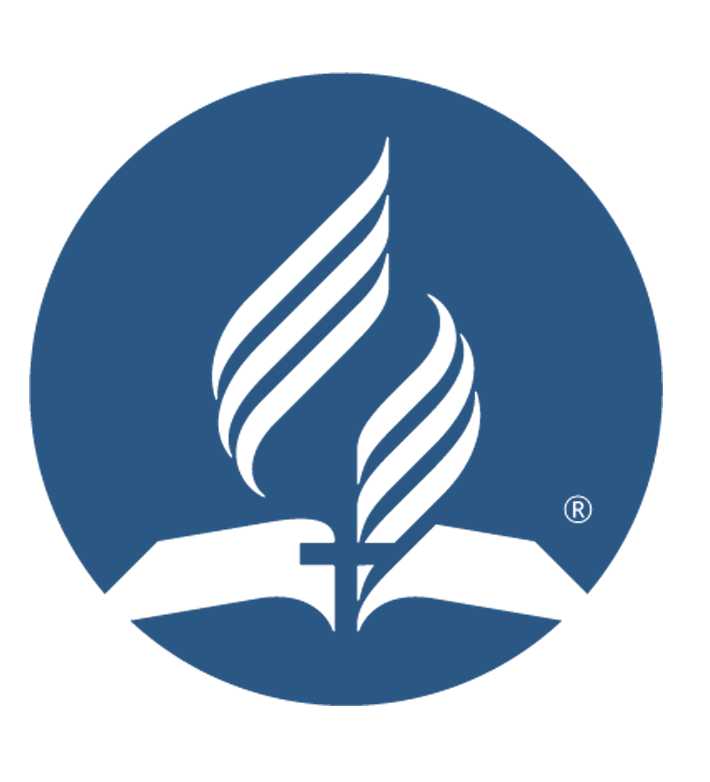
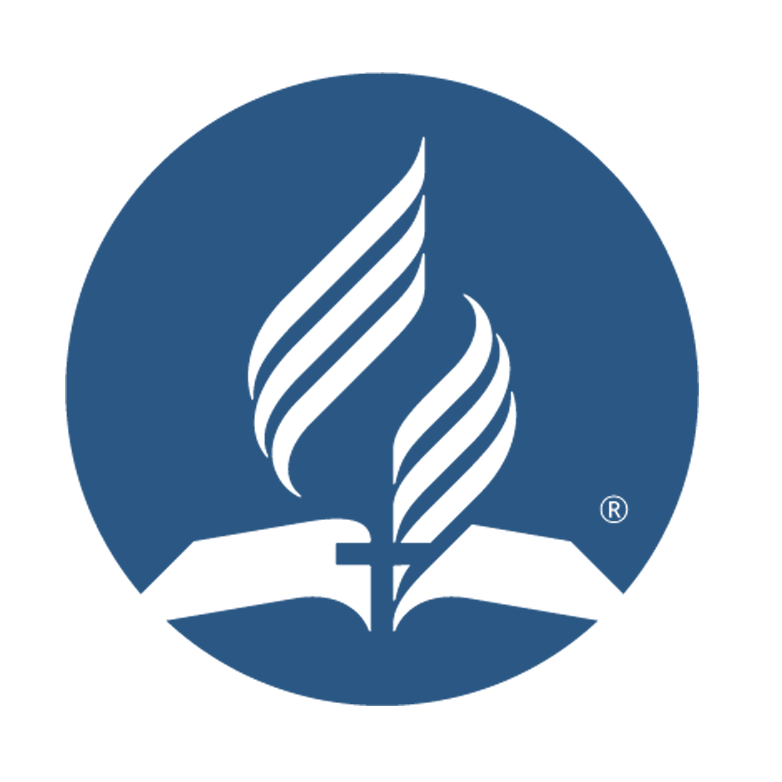
feat: added data to the staff views

diff --git a/src/app/staff/page.tsx b/src/app/staff/page.tsx
@@ -454,8 +454,17 @@ function StaffScheduleBoard({ staffList, isLoadingStaff }: { staffList: StaffApi
   const [isLoadingPausas, setIsLoadingPausas] = useState(false);
   const [isSavingJornada, setIsSavingJornada] = useState(false);
   const [selectedScheduleDay, setSelectedScheduleDay] = useState<WorkWeekDay>(() => getCurrentWorkWeekDay());
+  const [nowTimestamp, setNowTimestamp] = useState(() => Date.now());
   const leftColumnRef = useRef<HTMLDivElement>(null);
   const rightColumnRef = useRef<HTMLDivElement>(null);
+
+  useEffect(() => {
+    const intervalId = window.setInterval(() => {
+      setNowTimestamp(Date.now());
+    }, 60 * 1000);
+
+    return () => window.clearInterval(intervalId);
+  }, []);
 
   // Sync vertical scrolls between left and right columns
   useEffect(() => {
@@ -482,6 +491,13 @@ function StaffScheduleBoard({ staffList, isLoadingStaff }: { staffList: StaffApi
     };
   }, []);
 
+  const currentDate = useMemo(() => new Date(nowTimestamp), [nowTimestamp]);
+  const currentMinutes = currentDate.getHours() * 60 + currentDate.getMinutes();
+  const currentWorkDay = useMemo<WorkWeekDay>(() => {
+    const dayMap: WorkWeekDay[] = ["Domingo", "Lunes", "Martes", "Miércoles", "Jueves", "Viernes", "Sábado"];
+    return dayMap[currentDate.getDay()] ?? "Lunes";
+  }, [currentDate]);
+
   const activeStaffCount = staffList.filter((staff) => staff.estado === "Active").length;
   const hourCells = useMemo(
     () =>
@@ -494,10 +510,74 @@ function StaffScheduleBoard({ staffList, isLoadingStaff }: { staffList: StaffApi
   );
   const staffWithSchedule = staffList.filter((staff) => (jornadaByStaffId[staff.id]?.length ?? 0) > 0).length;
   const withoutScheduleCount = Math.max(staffList.length - staffWithSchedule, 0);
-  const totalHoursScheduled = staffList.reduce((sum, staff) => {
-    const total = (jornadaByStaffId[staff.id] ?? []).reduce((acc, row) => acc + row.totalHorasDia, 0);
-    return sum + total;
+  const selectedDayKey = normalizeDayName(selectedScheduleDay);
+  const currentDayKey = normalizeDayName(currentWorkDay);
+
+  const isStaffWorkingNow = (staffId: string) => {
+    const jornadaToday = (jornadaByStaffId[staffId] ?? []).filter(
+      (row) => normalizeDayName(row.diaSemana) === currentDayKey,
+    );
+
+    if (jornadaToday.length === 0) return false;
+
+    const hasActiveJornada = jornadaToday.some((row) => {
+      const start = timeToMinutes(row.horaEntrada);
+      const end = timeToMinutes(row.horaSalida);
+      return Number.isFinite(start) && Number.isFinite(end) && start <= currentMinutes && currentMinutes < end;
+    });
+
+    if (!hasActiveJornada) return false;
+
+    const activePause = (pausaByStaffId[staffId] ?? []).some((pause) => {
+      if (normalizeDayName(pause.diaSemana) !== currentDayKey) return false;
+      const start = timeToMinutes(pause.horaInicio);
+      const end = timeToMinutes(pause.horaFin);
+      return Number.isFinite(start) && Number.isFinite(end) && start <= currentMinutes && currentMinutes < end;
+    });
+
+    return !activePause;
+  };
+
+  const workingNowCount = staffList.filter(
+    (staff) => staff.estado === "Active" && isStaffWorkingNow(staff.id),
+  ).length;
+
+  const staffWithScheduleOnSelectedDay = staffList.filter((staff) =>
+    (jornadaByStaffId[staff.id] ?? []).some((row) => normalizeDayName(row.diaSemana) === selectedDayKey),
+  ).length;
+
+  const totalSelectedDayHours = staffList.reduce((sum, staff) => {
+    const dayTotal = (jornadaByStaffId[staff.id] ?? [])
+      .filter((row) => normalizeDayName(row.diaSemana) === selectedDayKey)
+      .reduce((acc, row) => acc + row.totalHorasDia, 0);
+
+    return sum + dayTotal;
   }, 0);
+
+  const sortedStaffList = useMemo(() => {
+    return [...staffList].sort((a, b) => {
+      const aWorking = isStaffWorkingNow(a.id);
+      const bWorking = isStaffWorkingNow(b.id);
+
+      if (aWorking !== bWorking) {
+        return aWorking ? -1 : 1;
+      }
+
+      const aJornada = jornadaByStaffId[a.id] ?? [];
+      const bJornada = jornadaByStaffId[b.id] ?? [];
+
+      const aStart = aJornada
+        .map((row) => timeToMinutes(row.horaEntrada))
+        .filter((value) => value >= 0)
+        .sort((left, right) => left - right)[0] ?? Infinity;
+      const bStart = bJornada
+        .map((row) => timeToMinutes(row.horaEntrada))
+        .filter((value) => value >= 0)
+        .sort((left, right) => left - right)[0] ?? Infinity;
+
+      return aStart - bStart;
+    });
+  }, [staffList, jornadaByStaffId, pausaByStaffId, currentDayKey, currentMinutes]);
 
   const formatDayHoursLabel = (rows: StaffJornadaItem[]) => `${rows.reduce((sum, row) => sum + row.totalHorasDia, 0).toFixed(1)} h`;
 
@@ -1000,34 +1080,54 @@ function StaffScheduleBoard({ staffList, isLoadingStaff }: { staffList: StaffApi
     return days.join(", ");
   };
 
-  const getBandStyle = (jornada: StaffJornadaItem[]) => {
-    if (jornada.length === 0) {
-      return { left: "0%", right: "68%" };
+  const getBandSegments = (jornada: StaffJornadaItem[]) => {
+    const rawSegments = jornada
+      .map((row) => ({
+        start: timeToMinutes(row.horaEntrada),
+        end: timeToMinutes(row.horaSalida),
+      }))
+      .filter((segment) => Number.isFinite(segment.start) && Number.isFinite(segment.end) && segment.end > segment.start)
+      .map((segment) => ({
+        start: Math.max(segment.start, TIMELINE_START_MINUTES),
+        end: Math.min(segment.end, TIMELINE_END_MINUTES),
+      }))
+      .filter((segment) => segment.end > segment.start)
+      .sort((a, b) => a.start - b.start);
+
+    if (rawSegments.length === 0) {
+      return [] as Array<{ left: number; width: number }>;
     }
 
-    const start = jornada
-      .map((row) => timeToMinutes(row.horaEntrada))
-      .filter((value) => value >= 0)
-      .sort((left, right) => left - right)[0] ?? TIMELINE_START_MINUTES;
-    const end = jornada
-      .map((row) => timeToMinutes(row.horaSalida))
-      .filter((value) => value >= 0)
-      .sort((left, right) => right - left)[0] ?? TIMELINE_START_MINUTES + 60;
+    const mergedSegments: Array<{ start: number; end: number }> = [];
+    for (const segment of rawSegments) {
+      const previous = mergedSegments[mergedSegments.length - 1];
+      if (!previous || segment.start > previous.end) {
+        mergedSegments.push({ ...segment });
+        continue;
+      }
 
-    const normalizedStart = Math.max(start, TIMELINE_START_MINUTES);
-    const normalizedEnd = Math.min(end, TIMELINE_END_MINUTES);
-
-    if (normalizedEnd <= normalizedStart) {
-      return { left: "0%", right: "100%" };
+      previous.end = Math.max(previous.end, segment.end);
     }
 
-    const leftPct = ((normalizedStart - TIMELINE_START_MINUTES) / TIMELINE_TOTAL_MINUTES) * 100;
-    const rightPct = ((TIMELINE_END_MINUTES - normalizedEnd) / TIMELINE_TOTAL_MINUTES) * 100;
+    return mergedSegments.map((segment) => {
+      const left = ((segment.start - TIMELINE_START_MINUTES) / TIMELINE_TOTAL_MINUTES) * 100;
+      const width = Math.max(((segment.end - segment.start) / TIMELINE_TOTAL_MINUTES) * 100, 1.2);
+      return { left, width };
+    });
+  };
 
-    return {
-      left: `${Math.max(0, Math.min(100, leftPct))}%`,
-      right: `${Math.max(0, Math.min(100, rightPct))}%`,
-    };
+  const getJornadaRangesLabel = (jornada: StaffJornadaItem[]) => {
+    const ranges = jornada
+      .map((row) => ({
+        start: timeToMinutes(row.horaEntrada),
+        end: timeToMinutes(row.horaSalida),
+        label: `${formatTimeAmPm(row.horaEntrada)} - ${formatTimeAmPm(row.horaSalida)}`,
+      }))
+      .filter((range) => Number.isFinite(range.start) && Number.isFinite(range.end) && range.end > range.start)
+      .sort((a, b) => a.start - b.start)
+      .map((range) => range.label);
+
+    return ranges.join(" • ");
   };
 
   const totalWeeklyWorkHours = editorRows.reduce((sum, row) => sum + parseFloat(row.totalHorasDia || "0"), 0);
@@ -1063,10 +1163,10 @@ function StaffScheduleBoard({ staffList, isLoadingStaff }: { staffList: StaffApi
 
       <div className="grid grid-cols-2 gap-2.5 md:grid-cols-4 md:gap-4">
         <div className="rounded-xl border border-slate-200 bg-white p-3 sm:p-4 md:p-5">
-          <p className="text-[10px] font-bold tracking-widest text-[#566166] uppercase">Personal activo</p>
+          <p className="text-[10px] font-bold tracking-widest text-[#566166] uppercase">Trabajando ahora</p>
           <div className="mt-1 flex items-baseline gap-1.5">
-            <span className="text-xl font-black text-[#2a3439] sm:text-2xl">{activeStaffCount}</span>
-            <span className="text-xs font-bold text-[#3a5f94]">/ {staffList.length} en total</span>
+            <span className="text-xl font-black text-[#2a3439] sm:text-2xl">{workingNowCount}</span>
+            <span className="text-xs font-bold text-[#3a5f94]">/ {activeStaffCount} activos</span>
           </div>
         </div>
         <div className="rounded-xl border border-slate-200 bg-white p-3 sm:p-4 md:p-5">
@@ -1079,15 +1179,15 @@ function StaffScheduleBoard({ staffList, isLoadingStaff }: { staffList: StaffApi
         <div className="rounded-xl border border-slate-200 bg-white p-3 sm:p-4 md:p-5">
           <p className="text-[10px] font-bold tracking-widest text-[#566166] uppercase">Con horario</p>
           <div className="mt-1 flex items-baseline gap-1.5">
-            <span className="text-xl font-black text-[#2a3439] sm:text-2xl">{staffWithSchedule}</span>
+            <span className="text-xl font-black text-[#2a3439] sm:text-2xl">{staffWithScheduleOnSelectedDay}</span>
             <span className="text-xs font-medium text-[#566166]">personas</span>
           </div>
         </div>
         <div className="rounded-xl border border-slate-200 bg-white p-3 sm:p-4 md:p-5">
-          <p className="text-[10px] font-bold tracking-widest text-[#566166] uppercase">Horas semanales</p>
+          <p className="text-[10px] font-bold tracking-widest text-[#566166] uppercase">Horas totales del día</p>
           <div className="mt-1 flex items-baseline gap-1.5">
-            <span className="text-xl font-black text-[#2a3439] sm:text-2xl">{totalHoursScheduled.toFixed(1)}</span>
-            <span className="text-xs font-medium text-[#566166]">programadas</span>
+            <span className="text-xl font-black text-[#2a3439] sm:text-2xl">{totalSelectedDayHours.toFixed(1)}</span>
+            <span className="text-xs font-medium text-[#566166]">{selectedScheduleDay}</span>
           </div>
         </div>
       </div>
@@ -1109,26 +1209,14 @@ function StaffScheduleBoard({ staffList, isLoadingStaff }: { staffList: StaffApi
               ) : staffList.length === 0 ? (
                 <p className="p-4 text-sm text-[#566166]">No hay personal registrado.</p>
               ) : (
-                [...staffList].sort((a, b) => {
-                  const aJornada = jornadaByStaffId[a.id] ?? [];
-                  const bJornada = jornadaByStaffId[b.id] ?? [];
-                  const aStart = aJornada
-                    .map((row) => timeToMinutes(row.horaEntrada))
-                    .filter((value) => value >= 0)
-                    .sort((left, right) => left - right)[0] ?? Infinity;
-                  const bStart = bJornada
-                    .map((row) => timeToMinutes(row.horaEntrada))
-                    .filter((value) => value >= 0)
-                    .sort((left, right) => left - right)[0] ?? Infinity;
-                  return aStart - bStart;
-                }).map((staff) => {
+                sortedStaffList.map((staff) => {
                   const jornada = jornadaByStaffId[staff.id] ?? [];
-                  const selectedDayKey = normalizeDayName(selectedScheduleDay);
                   const jornadaForSelectedDay = jornada.filter((row) => normalizeDayName(row.diaSemana) === selectedDayKey);
                   const hasJornada = jornadaForSelectedDay.length > 0;
+                  const workingNow = isStaffWorkingNow(staff.id);
 
                   return (
-                    <div className="flex h-[62px] items-center gap-2.5 bg-white px-3 sm:h-[70px] sm:gap-3 sm:px-4 md:h-[74px]" key={staff.id}>
+                    <div className={`flex h-[62px] items-center gap-2.5 bg-white px-3 sm:h-[70px] sm:gap-3 sm:px-4 md:h-[74px] ${workingNow ? "border-l-4 border-emerald-500" : ""}`} key={staff.id}>
                       <div className="relative flex h-8 w-8 items-center justify-center overflow-hidden rounded-lg bg-[#e8eff3] text-[11px] font-black text-[#375c91] sm:h-10 sm:w-10 sm:text-xs">
                         <img
                           src={getStaffPhotoUrl(staff.cedula)}
@@ -1195,30 +1283,17 @@ function StaffScheduleBoard({ staffList, isLoadingStaff }: { staffList: StaffApi
               ) : staffList.length === 0 ? (
                 <p className="p-4 text-sm text-[#566166]">No hay personal registrado.</p>
               ) : (
-                [...staffList].sort((a, b) => {
-                  const aJornada = jornadaByStaffId[a.id] ?? [];
-                  const bJornada = jornadaByStaffId[b.id] ?? [];
-                  const aStart = aJornada
-                    .map((row) => timeToMinutes(row.horaEntrada))
-                    .filter((value) => value >= 0)
-                    .sort((left, right) => left - right)[0] ?? Infinity;
-                  const bStart = bJornada
-                    .map((row) => timeToMinutes(row.horaEntrada))
-                    .filter((value) => value >= 0)
-                    .sort((left, right) => left - right)[0] ?? Infinity;
-                  return aStart - bStart;
-                }).map((staff) => {
+                sortedStaffList.map((staff) => {
                   const jornada = jornadaByStaffId[staff.id] ?? [];
                   const pausas = pausaByStaffId[staff.id] ?? [];
-                  const selectedDayKey = normalizeDayName(selectedScheduleDay);
                   const jornadaForSelectedDay = jornada.filter((row) => normalizeDayName(row.diaSemana) === selectedDayKey);
                   const pausasForSelectedDay = pausas
                     .filter((row) => normalizeDayName(row.diaSemana) === selectedDayKey)
                     .sort((a, b) => timeToMinutes(a.horaInicio) - timeToMinutes(b.horaInicio));
                   const hasJornada = jornadaForSelectedDay.length > 0;
-                  const firstStart = hasJornada ? jornadaForSelectedDay.map((row) => row.horaEntrada).sort()[0] : null;
-                  const lastEnd = hasJornada ? jornadaForSelectedDay.map((row) => row.horaSalida).sort().slice(-1)[0] : null;
-                  const bandStyle = getBandStyle(jornadaForSelectedDay);
+                  const bandSegments = getBandSegments(jornadaForSelectedDay);
+                  const jornadaRangesLabel = getJornadaRangesLabel(jornadaForSelectedDay);
+                  const firstBandLeft = bandSegments[0]?.left ?? 0;
 
                   return (
                     <div className="relative h-[62px] bg-white sm:h-[70px] md:h-[74px]" key={staff.id}>
@@ -1229,20 +1304,12 @@ function StaffScheduleBoard({ staffList, isLoadingStaff }: { staffList: StaffApi
                       </div>
 
                       {/* Current time indicator if today */}
-                      {selectedScheduleDay === getCurrentWorkWeekDay() && (() => {
-                        const now = new Date();
-                        const currentMinutes = now.getHours() * 60 + now.getMinutes();
-                        if (currentMinutes >= TIMELINE_START_MINUTES && currentMinutes <= TIMELINE_END_MINUTES) {
-                          const leftPct = ((currentMinutes - TIMELINE_START_MINUTES) / TIMELINE_TOTAL_MINUTES) * 100;
-                          return (
-                            <div
-                              className="absolute top-0 bottom-0 w-0.5 bg-red-500 z-20"
-                              style={{ left: `${leftPct}%` }}
-                            />
-                          );
-                        }
-                        return null;
-                      })()}
+                      {selectedScheduleDay === currentWorkDay && currentMinutes >= TIMELINE_START_MINUTES && currentMinutes <= TIMELINE_END_MINUTES ? (
+                        <div
+                          className="absolute top-0 bottom-0 z-20 w-0.5 bg-red-500"
+                          style={{ left: `${((currentMinutes - TIMELINE_START_MINUTES) / TIMELINE_TOTAL_MINUTES) * 100}%` }}
+                        />
+                      ) : null}
 
                       {hasJornada && pausasForSelectedDay.length > 0 ? (
                         <div className="pointer-events-none absolute inset-y-2 z-10 left-0 right-0">
@@ -1274,16 +1341,30 @@ function StaffScheduleBoard({ staffList, isLoadingStaff }: { staffList: StaffApi
                         </div>
                       ) : null}
 
-                      <div className="absolute inset-y-2 z-20 rounded-r-md border-l-4 border-[#3a5f94] bg-[#3a5f94]/10 px-4" style={bandStyle}>
-                        <div className="flex h-full items-center gap-2 overflow-hidden">
-                          <div className="h-2 w-2 shrink-0 rounded-full bg-[#3a5f94]" />
-                          <span className="truncate text-[10px] font-bold text-[#3a5f94]">
-                            {hasJornada
-                              ? `Jornada ${firstStart} - ${lastEnd} • ${formatDayHoursLabel(jornadaForSelectedDay)}${pausasForSelectedDay.length > 0 ? ` • Pausas: ${pausasForSelectedDay.length}` : ""}`
-                              : "Sin horario asignado"}
-                          </span>
+                      {bandSegments.map((segment, index) => (
+                        <div
+                          key={`${staff.id}-band-${index + 1}`}
+                          className="absolute inset-y-2 z-20 rounded-r-md border-l-4 border-[#3a5f94] bg-[#3a5f94]/10"
+                          style={{ left: `${segment.left}%`, width: `${segment.width}%` }}
+                        />
+                      ))}
+
+                      {hasJornada ? (
+                        <div className="pointer-events-none absolute inset-y-2 z-30 right-0 pr-4" style={{ left: `${firstBandLeft}%` }}>
+                          <div className="flex h-full items-center gap-2 overflow-hidden pl-3">
+                            <div className="h-2 w-2 shrink-0 rounded-full bg-[#3a5f94]" />
+                            <span className="truncate text-[10px] font-bold text-[#3a5f94]">
+                              {`${jornadaRangesLabel} • ${formatDayHoursLabel(jornadaForSelectedDay)}${pausasForSelectedDay.length > 0 ? ` • Pausas: ${pausasForSelectedDay.length}` : ""}`}
+                            </span>
+                          </div>
                         </div>
-                      </div>
+                      ) : (
+                        <div className="pointer-events-none absolute inset-y-2 z-30 left-0 right-0 px-4">
+                          <div className="flex h-full items-center gap-2 overflow-hidden">
+                            <span className="truncate text-[10px] font-bold text-[#3a5f94]">Sin horario asignado</span>
+                          </div>
+                        </div>
+                      )}
                     </div>
                   );
                 })

diff --git a/src/app/layout.tsx b/src/app/layout.tsx
@@ -7,9 +7,9 @@ export const metadata: Metadata = {
   title: "UNAC Bolivar | Horarios",
   description: "Frontend base para gestion de horarios academicos.",
   icons: {
-    icon: "/icon.png?v=4",
-    shortcut: "/icon.png?v=4",
-    apple: "/icon.png?v=4",
+    icon: "/icon.png?v=5",
+    shortcut: "/icon.png?v=5",
+    apple: "/icon.png?v=5",
   },
 };
 
